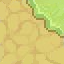
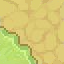
new map

diff --git a/src/tile/TileManager.java b/src/tile/TileManager.java
@@ -8,7 +8,6 @@ import java.io.BufferedReader;
 import java.io.IOException;
 import java.io.InputStream;
 import java.io.InputStreamReader;
-import java.util.Scanner;
 
 public class TileManager {
     GamePanel gp;
@@ -18,7 +17,7 @@ public class TileManager {
     //constructor
     public TileManager(GamePanel gp){
         this.gp= gp;
-        tile= new Tile[40]; //10 tiles
+        tile= new Tile[100]; //100 tiles
         mapTileNum=new int[gp.maxWorldCol][gp.maxWorldRow];
         getTileImage();
         loadMap("/maps/map01.txt");
@@ -27,48 +26,37 @@ public class TileManager {
     public void getTileImage(){
         try{
             //instantiere tile array
-            tile[0]=new Tile();
-            tile[0].image= ImageIO.read(getClass().getResourceAsStream("/tiles/poteca_basic.png"));
-            tile[1]=new Tile();
-            tile[1].image= ImageIO.read(getClass().getResourceAsStream("/tiles/poteca_iarba_stg.png"));
-            tile[2]=new Tile();
-            tile[2].image= ImageIO.read(getClass().getResourceAsStream("/tiles/poteca_iarba_drpt.png"));
-            tile[3]=new Tile();
-            tile[3].image= ImageIO.read(getClass().getResourceAsStream("/tiles/poteca_colt_drpt_sus.png"));
-            tile[4]=new Tile();
-            tile[4].image= ImageIO.read(getClass().getResourceAsStream("/tiles/poteca_colt_stg_sus.png"));
-            tile[5]=new Tile();
-            tile[5].image= ImageIO.read(getClass().getResourceAsStream("/tiles/poteca_iarba_sus.png"));
-            tile[6]=new Tile();
-            tile[6].image= ImageIO.read(getClass().getResourceAsStream("/tiles/poteca_iarba_jos.png"));
-            tile[7]=new Tile();
-            tile[7].image= ImageIO.read(getClass().getResourceAsStream("/tiles/poteca_colt_stg_jos.png"));
-            tile[8]=new Tile();
-            tile[8].image= ImageIO.read(getClass().getResourceAsStream("/tiles/poteca_colt_drpt_jos.png"));
-            tile[9]=new Tile();
-            tile[9].image= ImageIO.read(getClass().getResourceAsStream("/tiles/copac_jos_drpt.png"));
+            for(int i=1;i<=9;i++)
+            {
+                tile[i]=new Tile();
+                tile[i].image= ImageIO.read(getClass().getResourceAsStream("/tiles/poteca_colt_iarba_jos_drpt.png"));
+            }
             tile[10]=new Tile();
-            tile[10].image= ImageIO.read(getClass().getResourceAsStream("/tiles/copac_jos_stg.png"));
+            tile[10].image= ImageIO.read(getClass().getResourceAsStream("/tiles/poteca_colt_iarba_jos_drpt.png"));
+
             tile[11]=new Tile();
-            tile[11].image= ImageIO.read(getClass().getResourceAsStream("/tiles/copac_mijloc_drpt.png"));
+            tile[11].image= ImageIO.read(getClass().getResourceAsStream("/tiles/poteca_colt_iarba_jos_drpt.png"));
             tile[12]=new Tile();
-            tile[12].image= ImageIO.read(getClass().getResourceAsStream("/tiles/copac_mijloc_stg.png"));
+            tile[12].image= ImageIO.read(getClass().getResourceAsStream("/tiles/poteca_colt_iarba_jos_stg.png"));
             tile[13]=new Tile();
-            tile[13].image= ImageIO.read(getClass().getResourceAsStream("/tiles/copac_sus_drpt.png"));
+            tile[13].image= ImageIO.read(getClass().getResourceAsStream("/tiles/poteca_colt_iarba_sus_drpt.png"));
             tile[14]=new Tile();
-            tile[14].image= ImageIO.read(getClass().getResourceAsStream("/tiles/copac_sus_stg.png"));
-            tile[15]=new Tile();
-            tile[15].image= ImageIO.read(getClass().getResourceAsStream("/tiles/iarba_basic.png"));
-            tile[16]=new Tile();
-            tile[16].image= ImageIO.read(getClass().getResourceAsStream("/tiles/poteca_cotita_iarba_colt_stg_jos.png"));
-            tile[17]=new Tile();
-            tile[17].image= ImageIO.read(getClass().getResourceAsStream("/tiles/poteca_cotita_iarba_colt_stg_sus.png"));
-            tile[18]=new Tile();
-            tile[18].image= ImageIO.read(getClass().getResourceAsStream("/tiles/poteca_cotita_iarba_colt_stg_sus.png"));
-            tile[19]=new Tile();
-            tile[19].image= ImageIO.read(getClass().getResourceAsStream("/tiles/poteca_colt_iarba_sus_drpt.png"));
-            tile[20]=new Tile();
-            tile[20].image= ImageIO.read(getClass().getResourceAsStream("/tiles/poteca_colt_iarba_jos_stg.png"));
+            tile[14].image= ImageIO.read(getClass().getResourceAsStream("/tiles/poteca_colt_iarba_sus_stg.png"));
+
+            tile[23]=new Tile();
+            tile[23].image= ImageIO.read(getClass().getResourceAsStream("/tiles/iarba_basic.png"));
+            tile[24]=new Tile();
+            tile[24].image= ImageIO.read(getClass().getResourceAsStream("/tiles/copac_sus_stg.png"));
+            tile[25]=new Tile();
+            tile[25].image= ImageIO.read(getClass().getResourceAsStream("/tiles/copac_sus_drpt.png"));
+            tile[26]=new Tile();
+            tile[26].image= ImageIO.read(getClass().getResourceAsStream("/tiles/copac_mijloc_stg.png"));
+            tile[27]=new Tile();
+            tile[27].image= ImageIO.read(getClass().getResourceAsStream("/tiles/copac_mijloc_drpt.png"));
+            tile[28]=new Tile();
+            tile[28].image= ImageIO.read(getClass().getResourceAsStream("/tiles/copac_jos_stg.png"));
+            tile[29]=new Tile();
+            tile[29].image= ImageIO.read(getClass().getResourceAsStream("/tiles/copac_jos_drpt.png"));
 
 
 
@@ -97,7 +85,7 @@ public class TileManager {
 
                     //we store the extracted number in the mapTileNum[][]
                     mapTileNum[col][row]=num;
-                    col++; //continue tis until everything in the numbers[] is stored in the mapTileNum[][]
+                    col++; //continue this until everything in the numbers[] is stored in the mapTileNum[][]
                 }
                 if(col==gp.maxWorldCol){
                     col = 0;

diff --git a/src/main/GamePanel.java b/src/main/GamePanel.java
@@ -26,8 +26,8 @@ public class GamePanel extends JPanel  implements Runnable{
 
 
     //WORLD SETTINGS
-    public final int maxWorldCol = 60;
-    public final int maxWorldRow = 60;
+    public final int maxWorldCol = 45;
+    public final int maxWorldRow = 45;
     public final int worldWidth = tileSize*maxWorldCol;
     public final int worldHeight = tileSize*maxWorldRow;
 
